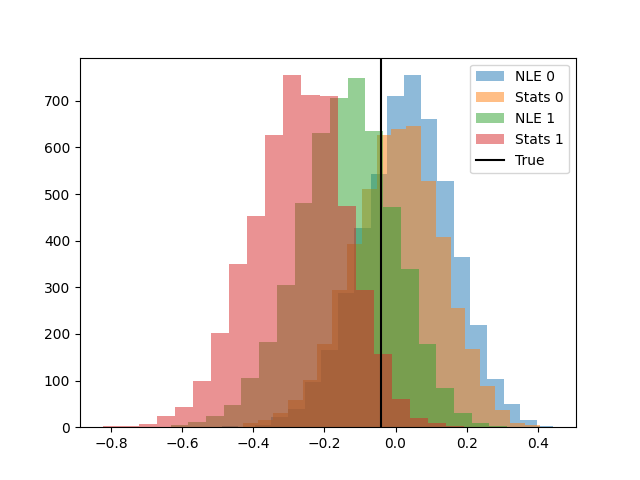
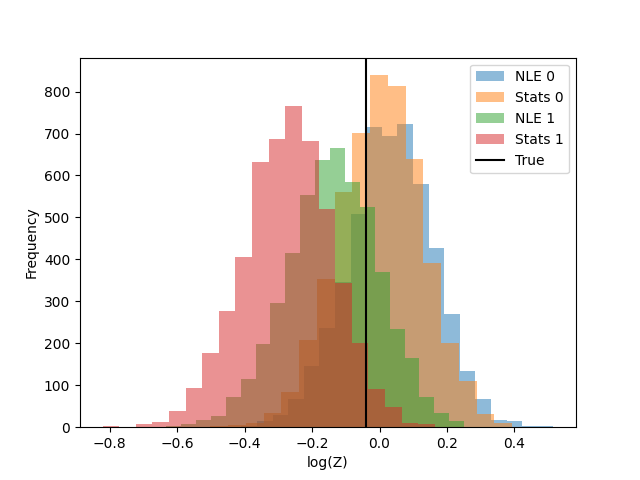
updating evidence plot and adding links to readme

diff --git a/compare_evidences.py b/compare_evidences.py
@@ -15,6 +15,8 @@ for i in range(2):
 true_logZ = np.loadtxt('raw-integration-evidence.txt')
 
 plt.axvline(true_logZ, color='k', label='True')
+plt.xlabel('log(Z)')
+plt.ylabel('Frequency')
 plt.legend()
 plt.savefig('evidence-comparison.png')
 plt.show()

diff --git a/README.md b/README.md
@@ -17,9 +17,9 @@ $L(D|\theta) = L(\tilde{D}|\theta) |\frac{d \tilde{D}}{d D}|$
 
 My likelihood function is gaussian since the noise in the data is gaussian and I can define this with scipy.stats. 
 I can analytically calcualte the evidence with scipy.integrate.quad, sample over scipy.stats.norm with
-Polychord and sample over the NLE with polychord too.
+[Polychord](https://github.com/PolyChord/PolyChordLite) and sample over the NLE with Polychord too.
 
-I use [anesthetic]() to get $\log Z$ from the Nested Sampling runs and plot the distributions to compare with the
+I use [anesthetic](https://anesthetic.readthedocs.io/en/latest/) to get $\log Z$ from the Nested Sampling runs and plot the distributions to compare with the
 `quad` integration. I run the sampling over the NLE and `scipy.stats.norm` twice to check that they are
 reproducible. You can see the results below.
 
